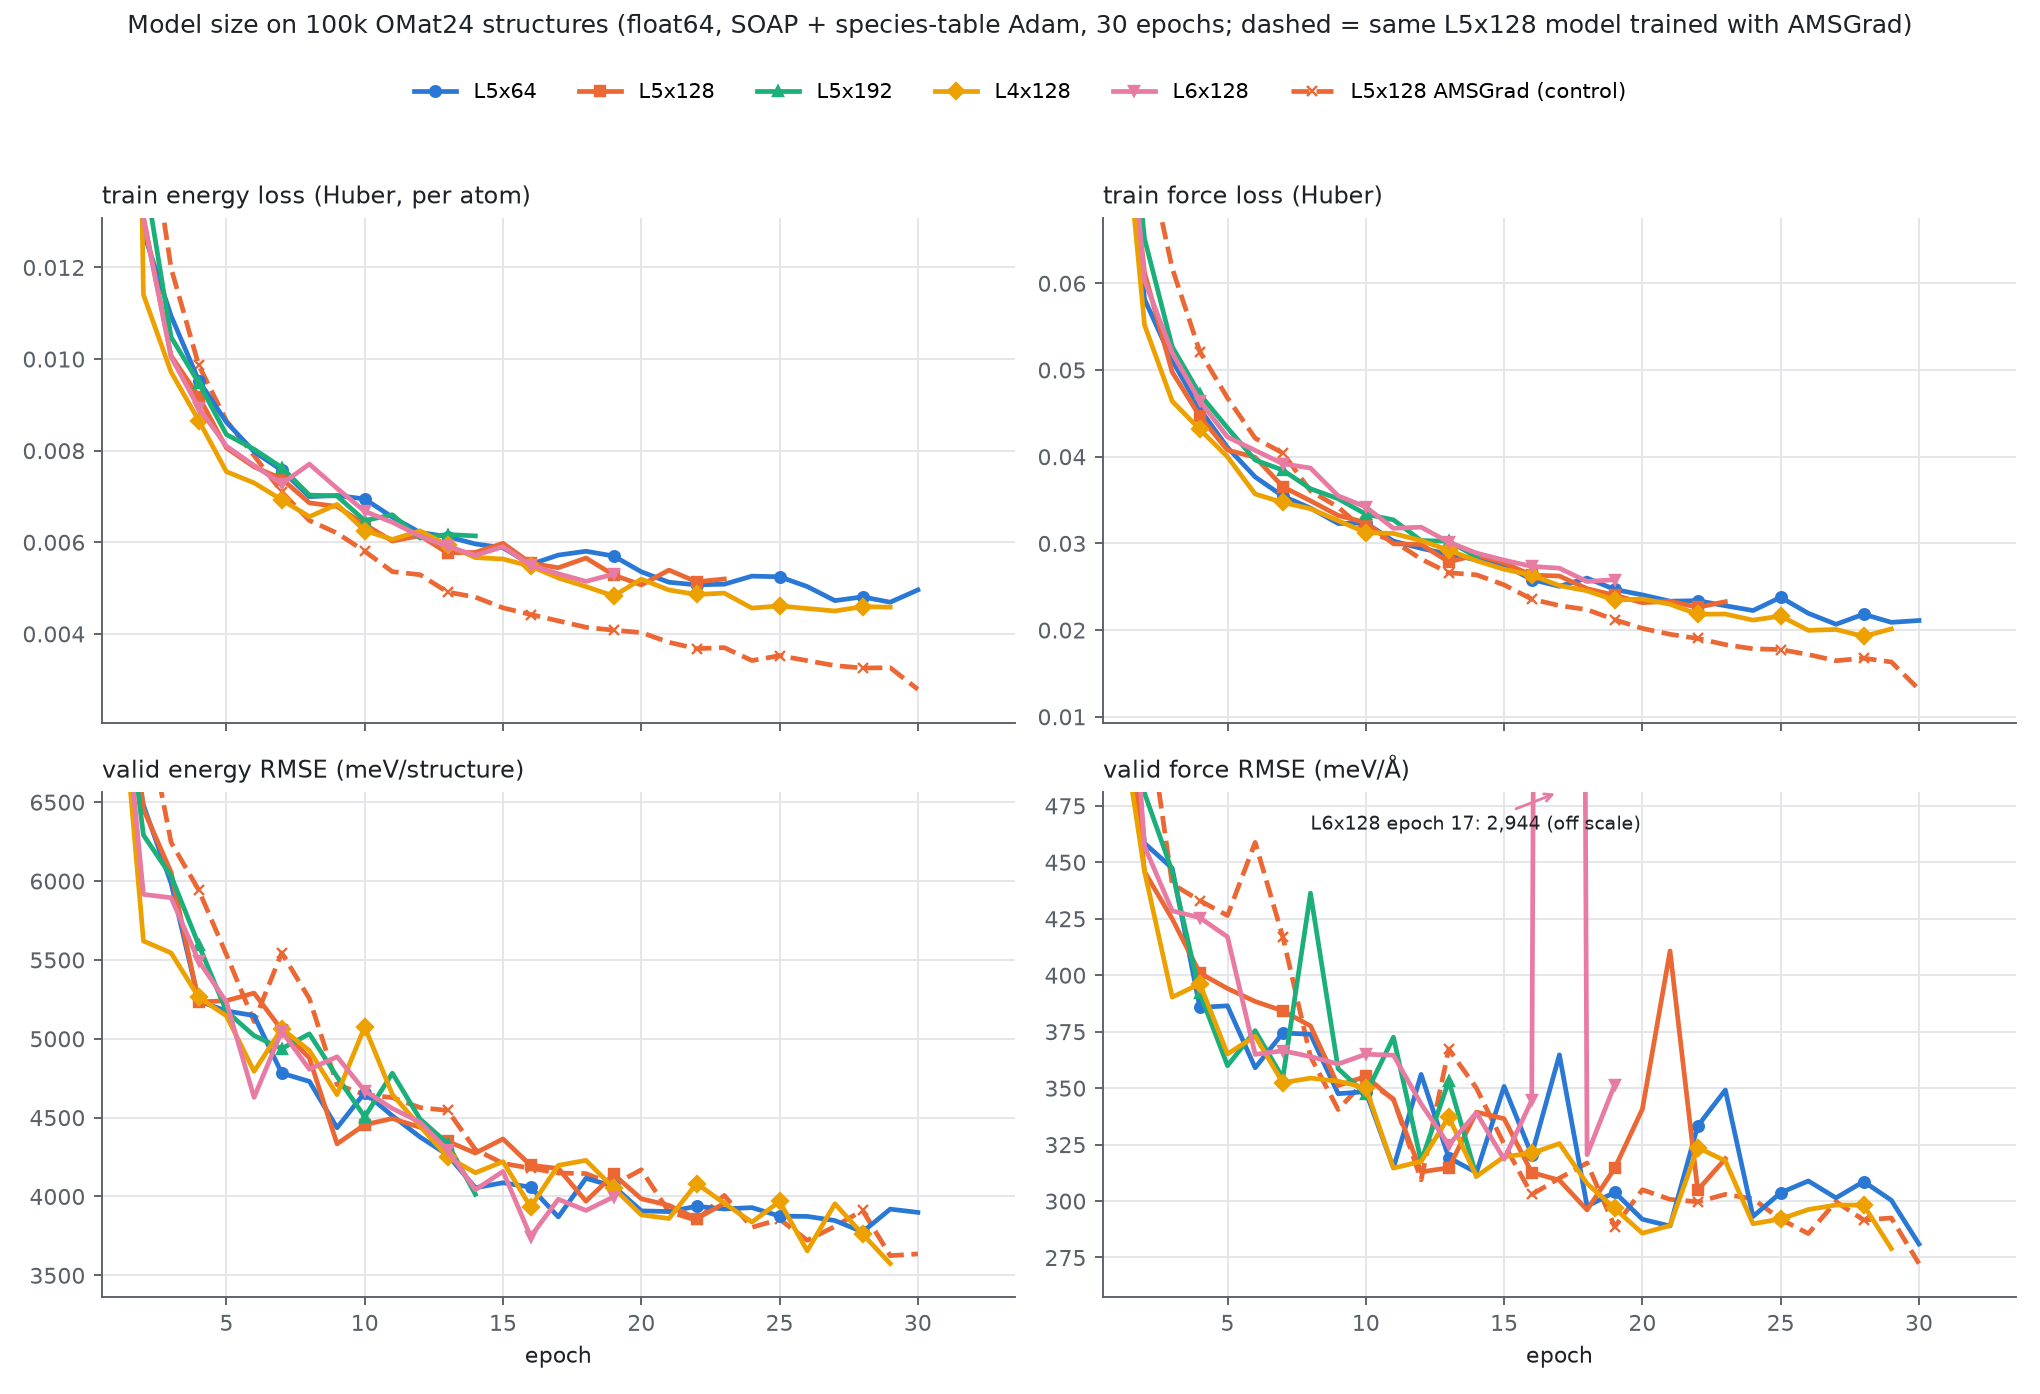
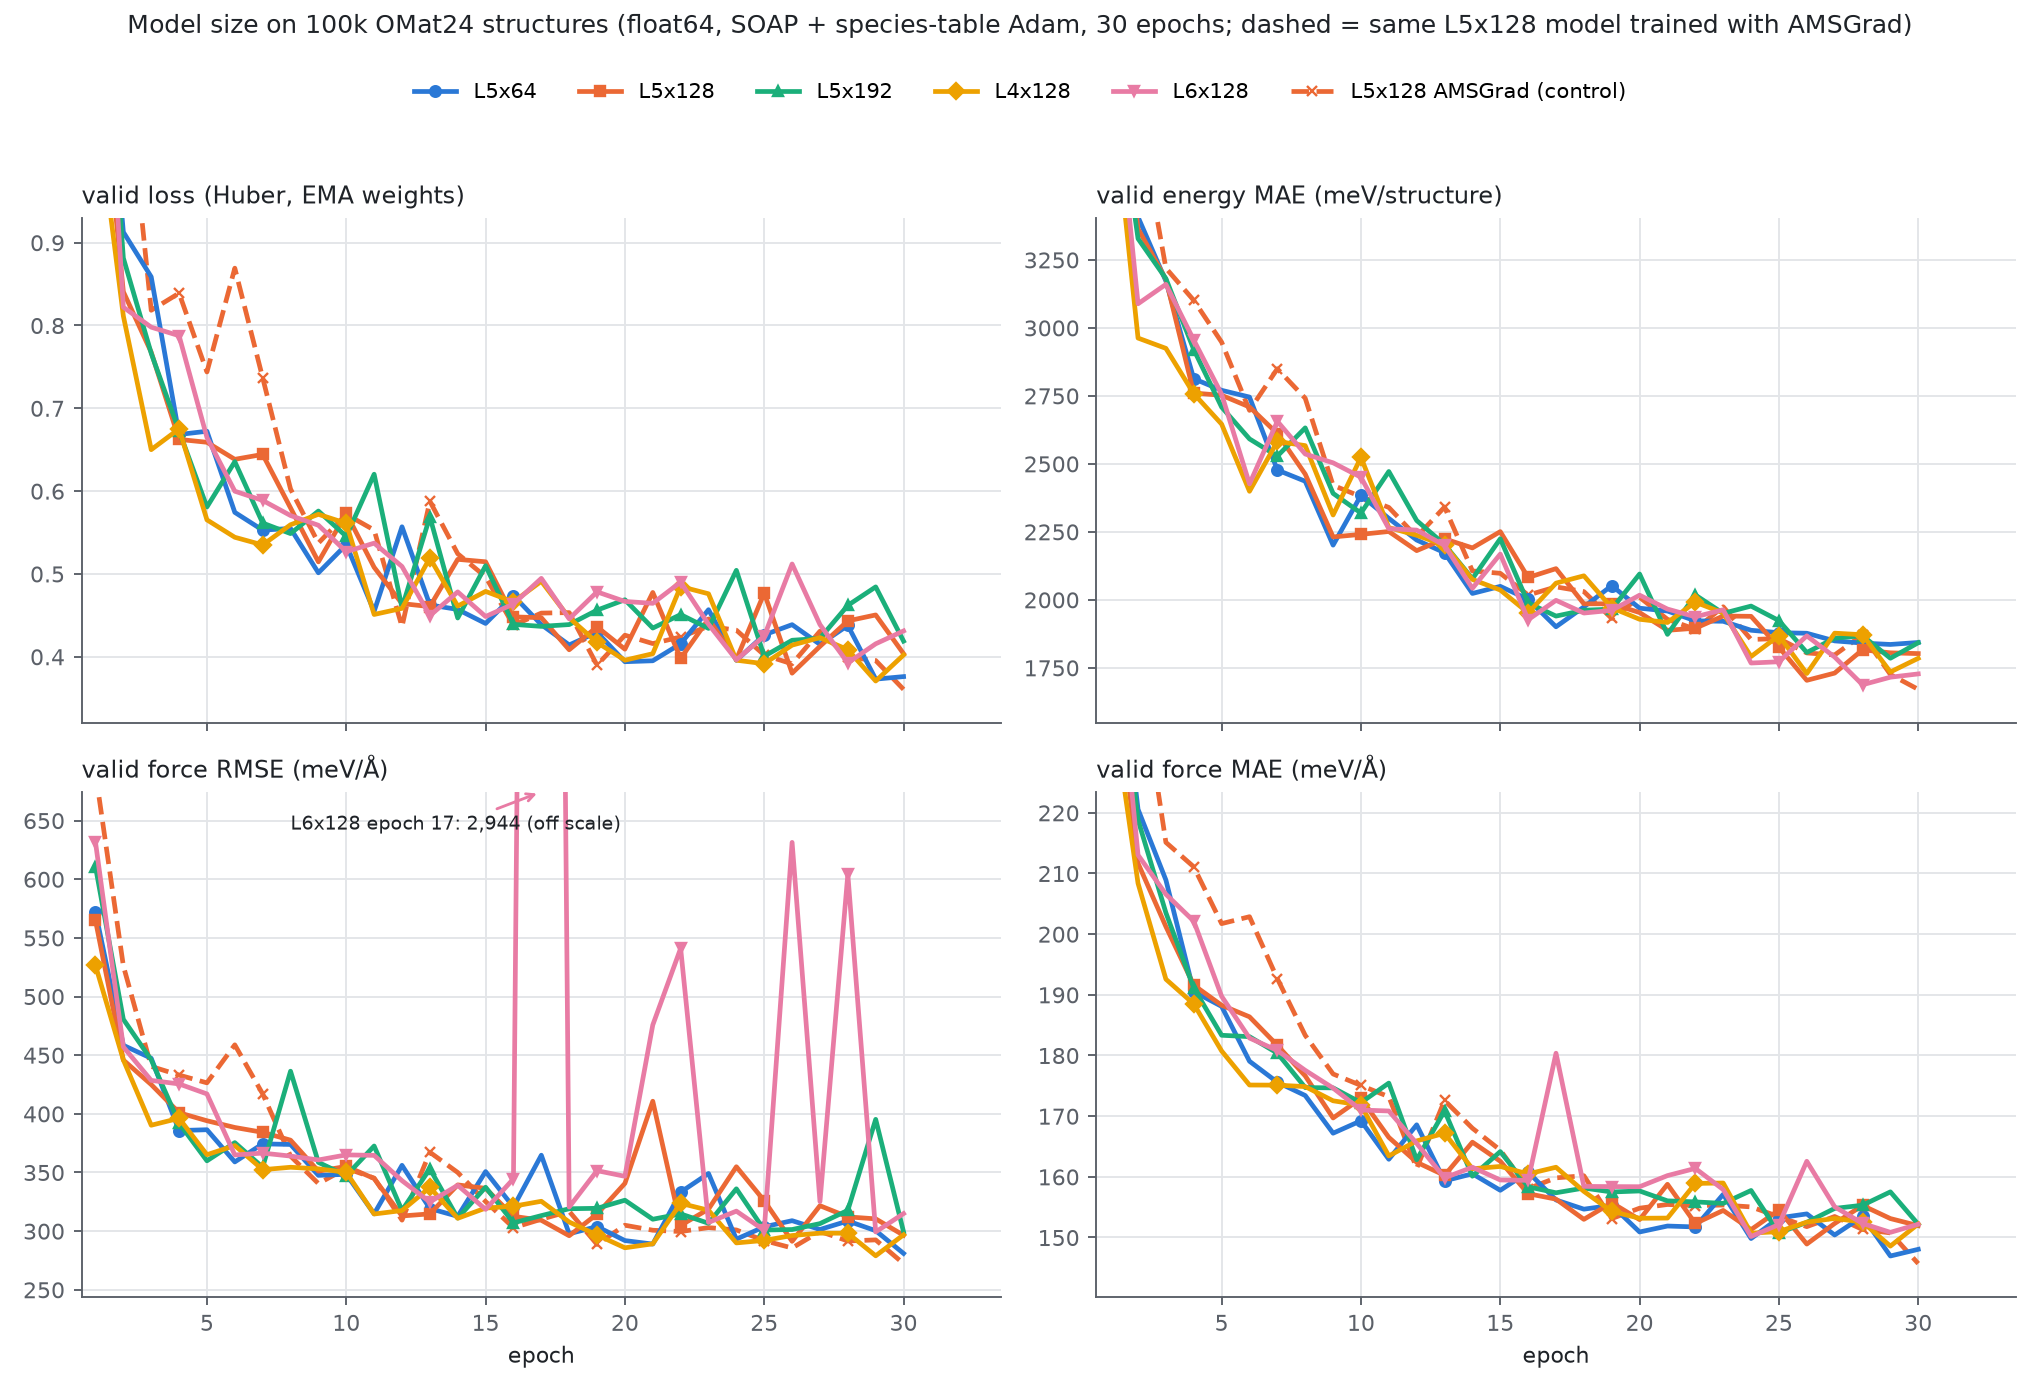
100k size screening results: L5x64 selected by the pre-registered rule; AMSGrad control ties with SOAP; validation-only figure
Claude-Session: https://claude.ai/code/session_019is1rr8xGRZxxyPxyi5vKE

diff --git a/runs/diag/select_size.py b/runs/diag/select_size.py
@@ -1,8 +1,10 @@
 """Apply the pre-registered size selection rule (docs/size_screening_protocol_2026-11-03.md) to finished runs:
 final-epoch EMA validation metrics only (summary['final_ema']['valid']); candidates = energy RMSE within +10 % of the
-best; choose the lowest force RMSE; ties (< 2 %) -> the smaller model (fewer parameters, read from stdout.txt).
+best; choose the lowest force RMSE; ties (< 2 %) -> the smaller model (fewer parameters).  Runs after --controls are
+listed for comparison but take no part in the rule.  Secondary (not part of the rule): mean of the last 5 epochs of
+the per-epoch validation table (energy RMSE per structure, force RMSE and MAE).
 
-    python -I runs/diag/select_size.py sz100k_L5x64_omat24_v2_s42 sz100k_L5x128_omat24_v2_s42 ...
+    python -I runs/diag/select_size.py <run> <run> ... [--controls <run> ...]
 """
 import json
 import re
@@ -11,26 +13,45 @@ from pathlib import Path
 
 
 def params(name):
-    t = Path(f'runs/{name}_cue/stdout.txt').read_text(errors='ignore').replace('\r', '\n')
+    t = ''
+    for f in (f'runs/{name}_cue/stdout.txt', f'runs/{name}_cue/loss_{name}_cue.out'):
+        if Path(f).exists():
+            t += Path(f).read_text(errors='ignore')
     m = re.search(r'Model parameters: ([\d,]+)', t)
-    return int(m.group(1).replace(',', '')) if m else None
+    return int(m.group(1).replace(',', '')) if m else 0
 
 
+def last5(name):
+    rows = {}
+    for l in open(f'runs/{name}_cue/loss_{name}_cue.out', errors='ignore'):
+        if re.match(r'^\d\d/\d\d/\d{4} ', l):
+            p = [x.split() for x in l.split('|')]
+            rows[int(p[0][2])] = (float(p[2][1]), float(p[2][2]), float(p[2][4]))
+    eps = sorted(rows)[-5:]
+    return [sum(rows[e][k] for e in eps) / len(eps) for k in range(3)]
+
+
+args = sys.argv[1:]
+controls = args[args.index('--controls') + 1:] if '--controls' in args else []
+names = args[:args.index('--controls')] if '--controls' in args else args
 rows = []
-for n in sys.argv[1:]:
+for n in names + controls:
     p = Path(f'runs/{n}_cue/loss_{n}_cue.summary.json')
     if not p.exists():
         print(f'{n}: no summary yet'); continue
     v = json.load(open(p))['final_ema']['valid']
-    rows.append((n, 1e3 * v['energy_rmse'], 1e3 * v['force_rmse'], 1e3 * v['energy_mae'], params(n)))
-if not rows:
-    sys.exit()
-best_e = min(r[1] for r in rows)
-cand = [r for r in rows if r[1] <= 1.10 * best_e]
-best_f = min(r[2] for r in cand)
-tied = [r for r in cand if r[2] <= 1.02 * best_f]
-pick = min(tied, key=lambda r: (r[4] or 0))
-print(f"{'run':45s} {'E RMSE':>8s} {'F RMSE':>8s} {'E MAE':>8s} {'params':>11s}  (final-epoch EMA, validation; meV/atom, meV/A)")
-for r in sorted(rows, key=lambda r: r[2]):
-    tag = ' <- selected' if r is pick else (' candidate' if r in cand else '')
-    print(f"{r[0]:45s} {r[1]:8.2f} {r[2]:8.2f} {r[3]:8.2f} {r[4] or 0:11,d}{tag}")
+    rows.append(dict(n=n, E=1e3 * v['energy_rmse'], F=1e3 * v['force_rmse'], Emae=1e3 * v['energy_mae'],
+                     Fmae=1e3 * v['force_mae'], P=params(n), ctrl=n in controls, l5=last5(n)))
+cand_all = [r for r in rows if not r['ctrl']]
+best_e = min(r['E'] for r in cand_all)
+cand = [r for r in cand_all if r['E'] <= 1.10 * best_e]
+best_f = min(r['F'] for r in cand)
+tied = [r for r in cand if r['F'] <= 1.02 * best_f]
+pick = min(tied, key=lambda r: r['P'])
+print('final-epoch EMA, validation: E per atom (meV), F (meV/Å) | last-5-epoch means of the per-epoch table: '
+      'E RMSE per structure (meV), F RMSE, F MAE')
+print(f"{'run':40s} {'E RMSE':>7s} {'E MAE':>6s} {'F RMSE':>7s} {'F MAE':>6s} {'params':>11s} | {'E5':>6s} {'F5':>6s} {'Fmae5':>6s}")
+for r in sorted(rows, key=lambda r: (r['ctrl'], r['F'])):
+    tag = ' <- selected' if r is pick else (' (control)' if r['ctrl'] else (' candidate' if r in cand else ''))
+    print(f"{r['n']:40s} {r['E']:7.2f} {r['Emae']:6.2f} {r['F']:7.2f} {r['Fmae']:6.2f} {r['P']:11,d} | "
+          f"{r['l5'][0]:6.0f} {r['l5'][1]:6.1f} {r['l5'][2]:6.1f}{tag}")

diff --git a/docs/make_size_screen_fig.py b/docs/make_size_screen_fig.py
@@ -1,4 +1,4 @@
-"""100k OMat24 size screening: per-epoch training losses and validation errors of the size candidates (SOAP with
+"""100k OMat24 size screening: per-epoch validation loss and errors of the size candidates (SOAP with
 species tables by Adam, float64) and the optimizer control (L5x128 with AMSGrad), runs sz100k_<L>x<H>[amsgrad]_omat24_v2_s42.
 
     ~/.conda/envs/bam_cue/bin/python docs/make_size_screen_fig.py  -> docs/fig_size_screen_100k.{png,pdf}
@@ -20,8 +20,8 @@ RUNS = [("L5x64", "#2a78d6", "o", "-"), ("L5x128", "#eb6834", "s", "-"), ("L5x19
         ("L5x128amsgrad", "#eb6834", "x", "--")]
 LABEL = {"L5x128amsgrad": "L5x128 AMSGrad (control)"}
 INK, MUTED, GRID = "#1f2328", "#5b6068", "#e3e5e8"
-PANELS = [("train_E", "train energy loss (Huber, per atom)"), ("train_F", "train force loss (Huber)"),
-          ("val_E", "valid energy RMSE (meV/structure)"), ("val_F", "valid force RMSE (meV/Å)")]
+PANELS = [("val_loss", "valid loss (Huber, EMA weights)"), ("val_Emae", "valid energy MAE (meV/structure)"),
+          ("val_F", "valid force RMSE (meV/Å)"), ("val_Fmae", "valid force MAE (meV/Å)")]
 
 
 def read_log(run):
@@ -34,7 +34,8 @@ def read_log(run):
             continue
         p = [x.split() for x in line.split("|")]
         tr = [float(x) for x in p[1]]; va = [float(x) for x in p[2]]
-        rows[int(p[0][2])] = dict(time=float(p[0][3]), train_E=tr[1], train_F=tr[2], val_E=va[1], val_F=va[2])
+        rows[int(p[0][2])] = dict(time=float(p[0][3]), train_E=tr[1], train_F=tr[2], val_loss=va[0], val_E=va[1],
+                                  val_F=va[2], val_Emae=va[3], val_Fmae=va[4])
     if not rows:
         return None
     eps = sorted(rows)
@@ -86,12 +87,12 @@ def main():
     fig.tight_layout(rect=(0, 0, 1, 0.92))
     for ext in ("png", "pdf"):
         fig.savefig(os.path.join(ROOT, "docs", f"fig_size_screen_100k.{ext}"), dpi=170)
-    print(f"{'run':26s} {'epoch':>5s} {'s/epoch':>8s} {'valid E RMSE':>13s} {'valid F RMSE':>13s}")
+    print(f"{'run':26s} {'epoch':>5s} {'s/epoch':>8s} {'valid E MAE':>12s} {'valid F RMSE':>13s} {'valid F MAE':>12s}")
     for name, *_ in RUNS:
         lg = logs[name]
         if lg is not None:
             print(f"{LABEL.get(name, name):26s} {lg['epoch'][-1]:5d} {np.median(lg['time'][1:]):8.0f} "
-                  f"{lg['val_E'][-1]:13.1f} {lg['val_F'][-1]:13.2f}")
+                  f"{lg['val_Emae'][-1]:12.1f} {lg['val_F'][-1]:13.2f} {lg['val_Fmae'][-1]:12.2f}")
 
 
 if __name__ == "__main__":

diff --git a/README.md b/README.md
@@ -197,13 +197,41 @@ Notes from the screening:
   Adam for the species-indexed tables keeps the force error of full SOAP and is 16–22 % faster; it is used from
   here on. A 6 Å cutoff is not better on these subsets and is 12–17 % slower; 5 Å is kept.
 
-#### Model size on 100k OMat24 structures (in progress)
+#### Model size on 100k OMat24 structures
 
-100k training / 2k validation / 1k test structures, float64, species tables by Adam, 30 epochs. Candidates: L5×64,
-L5×128, L5×192, L4×128, L6×128 (layers × channels), plus L5×128 with AMSGrad as an optimizer control. The selection
-rule was fixed before the runs (`docs/size_screening_protocol_2026-11-03.md`, validation only): candidates within
-+10 % of the best validation energy RMSE, then the lowest validation force RMSE, ties (< 2 %) to the smaller model.
-Time per epoch on one GH200: 834 s (L4×128), 1010 s (L5×128), 1196 s (L6×128), 1419 s (L5×192).
+Setup: 100k training / 2k validation / 1k test structures, float64, species tables by Adam, 30 epochs, 1 seed.
+The selection rule was fixed before the runs (`docs/size_screening_protocol_2026-11-03.md`), on validation only:
+1. keep the candidates within +10 % of the best final-epoch validation energy RMSE;
+2. among them, take the lowest validation force RMSE;
+3. ties (< 2 %) go to the smaller model.
+
+`runs/diag/select_size.py` applies the rule. The L5×128 run with AMSGrad is an optimizer control, not a size
+candidate.
+
+![Size screening curves](docs/fig_size_screen_100k.png)
+
+Validation errors (E in meV/atom, F in meV/Å). The first four columns use the final-epoch EMA weights; the
+last-5-epoch mean is a secondary number, not part of the rule.
+
+| Model | Params | E RMSE | E MAE | F RMSE | F MAE | F MAE, last-5-epoch mean | Time per epoch |
+|---|---|---|---|---|---|---|---|
+| **L5×64 (selected)** | 11.7 M | 106.3 | 61.9 | **281.0** | 148.1 | 150.6 | 515 s |
+| L5×128 | 45.9 M | **103.4** | 60.9 | 296.5 | 152.0 | 152.3 | 766 s |
+| L4×128 | 36.0 M | 105.3 | 61.2 | 296.8 | 152.2 | 151.8 | 605 s |
+| L5×192 | 102.5 M | 105.1 | 62.6 | 299.3 | 152.2 | 154.5 | 1231 s |
+| L6×128 | 55.7 M | 103.8 | 59.9 | 314.9 | 152.2 | 154.6 | 956 s |
+| L5×128, AMSGrad (control) | 45.9 M | 100.4 | 56.7 | 272.3 | 145.7 | 150.6 | 517 s |
+
+- **Selection.** All five sizes fall within +10 % in energy. L5×64 has the lowest force RMSE, and no other size is
+  within 2 % of it, so the rule selects L5×64 (4× fewer parameters than L5×128).
+- **Size barely matters.** The force MAE of all sizes lies within 148–155 meV/Å, about the epoch-to-epoch
+  fluctuation (5–10 %). At 100k structures and 30 epochs, data, not model size, limits the error.
+- **Deeper model.** L6×128 has repeated force-RMSE spikes; one epoch reached 2,944 meV/Å.
+- **Optimizer.** AMSGrad and SOAP tie on validation: last-5-epoch force MAE 150.6 vs 152.3 (L5×128). AMSGrad is
+  1.5× faster per epoch, while on 3BPA SOAP is clearly better. Planned next: plain Adam, AMSGrad in float32, a
+  second seed, and the V1 recipe on the same 100k data.
+- **Cost of 10× more data.** From 10k to 100k structures, the test errors of L5×128 fell to about 0.57× (energy MAE
+  110 → 62 meV/atom, force MAE 261 → 153 meV/Å), with 30 instead of 100 epochs.
 
 ### RACE_LR: charge equilibration and long-range electrostatics (preliminary, 2026-11-06)
 
@@ -285,8 +313,8 @@ See "Charge handling variants" above. Next checks:
 - the error at reduced cutoff, compared with RACE;
 - the hardness and electronegativity initialisation, or an optional Hirshfeld charge loss as in 4G-HDNNP.
 
-Work in progress: 100k size comparison, ablations without shell channels / UFF / SOAP (AMSGrad), last-layer Bayesian
-uncertainty, water rerun with repulsion, MD22.
+Work in progress: optimizer/precision checks at 100k, ablations without shell channels / UFF / SOAP (AMSGrad),
+last-layer Bayesian uncertainty, water rerun with repulsion, MD22.
 
 ## LAMMPS (`pair_style race`, experimental)
 

diff --git a/docs/HANDOFF.md b/docs/HANDOFF.md
@@ -102,15 +102,13 @@ exact conversion commands and splits, and the md5s of the outputs. The converter
 
 ## 6. State on 2026-11-06 (allocation exhausted; no new jobs possible)
 
-**Running when the session ended** (HANGANG job ids):
-- `1224124 sz100k` (4 GPUs): L5x64, L5x128, L5x192, L4x128, 30 epochs on 100k OMat24.
-- `1224125 sz100k_b` (2 GPUs): L6x128 and L5x128 with AMSGrad (an optimizer control, not a size candidate).
-- `1221822 bamjax_oam`: the user's own BAM-GAMP job. Do not touch it.
-
-When the size screening finishes, apply the rule (validation only):
-`python -I runs/diag/select_size.py sz100k_L5x64_omat24_v2_s42 sz100k_L5x128_omat24_v2_s42 sz100k_L5x192_omat24_v2_s42 sz100k_L4x128_omat24_v2_s42 sz100k_L6x128_omat24_v2_s42`.
-Report the AMSGrad control separately (SOAP vs AMSGrad on OAM), then update README section "Model size on 100k OMat24 structures".
-Epoch times measured: 834 s (L4x128), 1010 s (L5x128), 1196 s (L6x128), 1419 s (L5x192) on one GH200, float64.
+**Size screening finished** (2026-11-06 19:21; jobs 1224124 / 1224125 COMPLETED):
+- The rule selects **L5x64** (11.7M parameters): final-epoch validation F RMSE 281.0, the only size within 2 %.
+- All sizes are within the epoch-to-epoch noise in force MAE (148–155 meV/Å).
+- The AMSGrad control ties with SOAP on validation (last-5-epoch F MAE 150.6 vs 152.3) and is 1.5× faster per epoch.
+- Table and figure: README "Model size on 100k OMat24 structures". Reproduce with
+  `python -I runs/diag/select_size.py sz100k_L5x64_omat24_v2_s42 sz100k_L5x128_omat24_v2_s42 sz100k_L5x192_omat24_v2_s42 sz100k_L4x128_omat24_v2_s42 sz100k_L6x128_omat24_v2_s42 --controls sz100k_L5x128amsgrad_omat24_v2_s42`.
+- The user's own job `1221822 bamjax_oam` (BAM-GAMP) was still running. Do not touch it.
 
 **Done in this session** (numbers in README):
 - OAM 10k subsets: RACEv2 beats V1 on all three datasets. Settings adopted for OAM: float64 (SOAP diverges in
@@ -155,7 +153,7 @@ sbatch). Every one of those jobs was written but not submitted.
      pre-registered".
    - Launcher: `runs/diag/train_runs.sh <run> ...` (one GPU per run).
    - Results go into the README ablation table and table 6b of the methods PDF.
-3. **100k size screening**: apply `select_size.py` (§6). Report the AMSGrad control separately, judged on
+3. **100k size screening** (done, see §6). The AMSGrad comparison is judged on
    **validation only**: final-epoch values, plus the mean of the last 5 epochs and the force MAE as secondary numbers.
    The validation curves fluctuate by 5–10 % per epoch, and the train loss (raw weights, running mean) is not
    comparable with validation (EMA weights).
